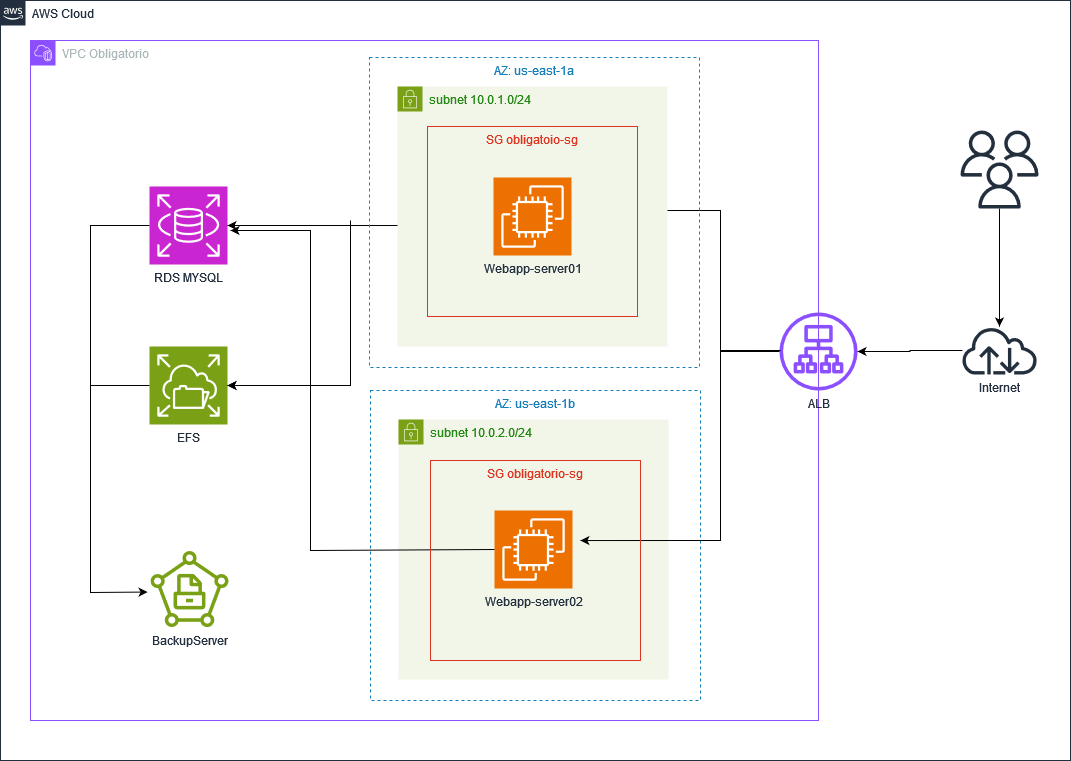
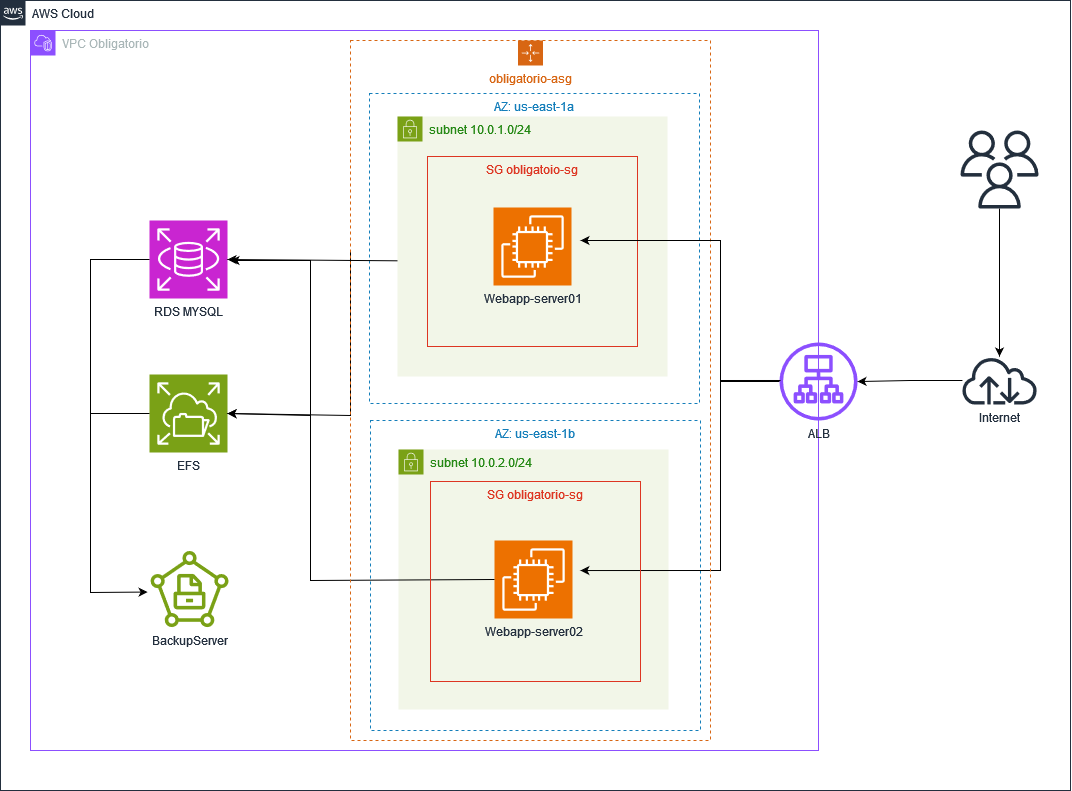
diagrama

diff --git a/README.md b/README.md
@@ -43,8 +43,7 @@ El siguiente diagrama representa la infraestructura planteada para la resolució
 - Inicializar el directorio de trabajo con `terraform init`
 - Ejecutar el codigo con `terraform apply -var-file="obligatorio_vars.tfvars"`
 
-[![asciicast](https://asciinema.org/a/dhtUDZOmstMq37KSB8gmyeTCt.svg)](https://asciinema.org/a/dhtUDZOmstMq37KSB8gmyeTCt)
-
+[![asciicast](https://asciinema.org/a/665017.svg)](https://asciinema.org/a/665017)
 
 ## Descripción
 
@@ -111,20 +110,18 @@ Contamos con respaldo a nivel de la base de datos y con respaldo de las imágene
 
 | Name | Type |
 |------|------|
+| [aws_autoscaling_group.obligatorio-asg](https://registry.terraform.io/providers/hashicorp/aws/latest/docs/resources/autoscaling_group) | resource |
 | [aws_db_instance.obligatorio-rds](https://registry.terraform.io/providers/hashicorp/aws/latest/docs/resources/db_instance) | resource |
 | [aws_db_subnet_group.network-group-obligatorio](https://registry.terraform.io/providers/hashicorp/aws/latest/docs/resources/db_subnet_group) | resource |
 | [aws_efs_file_system.obligatorio-efs](https://registry.terraform.io/providers/hashicorp/aws/latest/docs/resources/efs_file_system) | resource |
 | [aws_efs_mount_target.obligatorio-efs-mount-tgA](https://registry.terraform.io/providers/hashicorp/aws/latest/docs/resources/efs_mount_target) | resource |
 | [aws_efs_mount_target.obligatorio-efs-mount-tgB](https://registry.terraform.io/providers/hashicorp/aws/latest/docs/resources/efs_mount_target) | resource |
 | [aws_instance.backup-server](https://registry.terraform.io/providers/hashicorp/aws/latest/docs/resources/instance) | resource |
-| [aws_instance.webapp-server01](https://registry.terraform.io/providers/hashicorp/aws/latest/docs/resources/instance) | resource |
-| [aws_instance.webapp-server02](https://registry.terraform.io/providers/hashicorp/aws/latest/docs/resources/instance) | resource |
 | [aws_internet_gateway.obligatorio-ig](https://registry.terraform.io/providers/hashicorp/aws/latest/docs/resources/internet_gateway) | resource |
+| [aws_launch_configuration.obligatorio-launch-config](https://registry.terraform.io/providers/hashicorp/aws/latest/docs/resources/launch_configuration) | resource |
 | [aws_lb.alb-obligatorio](https://registry.terraform.io/providers/hashicorp/aws/latest/docs/resources/lb) | resource |
 | [aws_lb_listener.my_alb_listener](https://registry.terraform.io/providers/hashicorp/aws/latest/docs/resources/lb_listener) | resource |
-| [aws_lb_target_group.targetA](https://registry.terraform.io/providers/hashicorp/aws/latest/docs/resources/lb_target_group) | resource |
-| [aws_lb_target_group_attachment.attachment-A](https://registry.terraform.io/providers/hashicorp/aws/latest/docs/resources/lb_target_group_attachment) | resource |
-| [aws_lb_target_group_attachment.attachment-B](https://registry.terraform.io/providers/hashicorp/aws/latest/docs/resources/lb_target_group_attachment) | resource |
+| [aws_lb_target_group.target_group](https://registry.terraform.io/providers/hashicorp/aws/latest/docs/resources/lb_target_group) | resource |
 | [aws_route_table.obligatorio-rt](https://registry.terraform.io/providers/hashicorp/aws/latest/docs/resources/route_table) | resource |
 | [aws_route_table_association.subneta](https://registry.terraform.io/providers/hashicorp/aws/latest/docs/resources/route_table_association) | resource |
 | [aws_route_table_association.subnetb](https://registry.terraform.io/providers/hashicorp/aws/latest/docs/resources/route_table_association) | resource |
